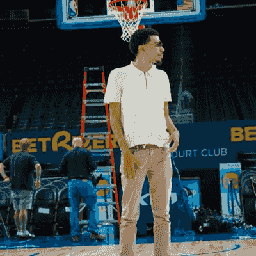
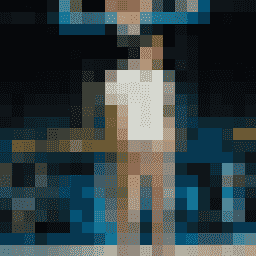
Add pixel-art crown to champion card; fix pixelation pipeline bug
The logo pixelation had a real bug: chaining .resize().resize() in one
sharp pipeline only applies the last call, so the "downsample then
blocky-upscale" step was silently doing nothing but color-quantizing
— none of the images were actually being pixelated at any grid size.
Fixed by materializing the downsample into its own buffer first, and
retuned the grid size now that it actually works (22, balancing
visible blockiness against staying recognizable — busier real photos
need a coarser grid than simple flat illustrations to survive).

Also adds a hand-built pixel-art crown (inline SVG, not emoji) above
the champion's logo on the home page hero card.

diff --git a/assets/js/data.js b/assets/js/data.js
@@ -60,6 +60,21 @@ function avatarImgHTML(team) {
   return `<span class="avatar"></span>`;
 }
 
+const CROWN_SVG = `
+  <svg class="crown-icon" viewBox="0 0 11 5" xmlns="http://www.w3.org/2000/svg" fill="currentColor" shape-rendering="crispEdges">
+    <rect x="1" y="0" width="1" height="1"/>
+    <rect x="5" y="0" width="1" height="1"/>
+    <rect x="9" y="0" width="1" height="1"/>
+    <rect x="0" y="1" width="3" height="1"/>
+    <rect x="4" y="1" width="3" height="1"/>
+    <rect x="8" y="1" width="3" height="1"/>
+    <rect x="0" y="2" width="3" height="1"/>
+    <rect x="4" y="2" width="3" height="1"/>
+    <rect x="8" y="2" width="3" height="1"/>
+    <rect x="0" y="3" width="11" height="2"/>
+  </svg>
+`;
+
 function teamCellHTML(team, { champ = false, last = false } = {}) {
   const name = team?.teamName ?? "Unknown";
   return `

diff --git a/index.html b/index.html
@@ -72,6 +72,7 @@
       slot.innerHTML = `
         <div class="champion-card">
           <div class="eyebrow">${champSeason.season} Champion</div>
+          <div class="crown">${CROWN_SVG}</div>
           ${avatarImgHTML(champ)}
           <div class="champ-name">${champ.teamName}</div>
           <div class="champ-season">${champSeason.season} Season</div>

diff --git a/assets/css/style.css b/assets/css/style.css
@@ -397,10 +397,22 @@ th.num {
   margin-bottom: 14px;
 }
 
+.champion-card .crown {
+  display: flex;
+  justify-content: center;
+}
+
+.champion-card .crown-icon {
+  width: 46px;
+  height: 20px;
+  color: var(--accent);
+}
+
 .champion-card .avatar {
   width: 64px;
   height: 64px;
   border-width: 3px;
+  margin-top: 4px;
   margin-bottom: 12px;
 }
 
